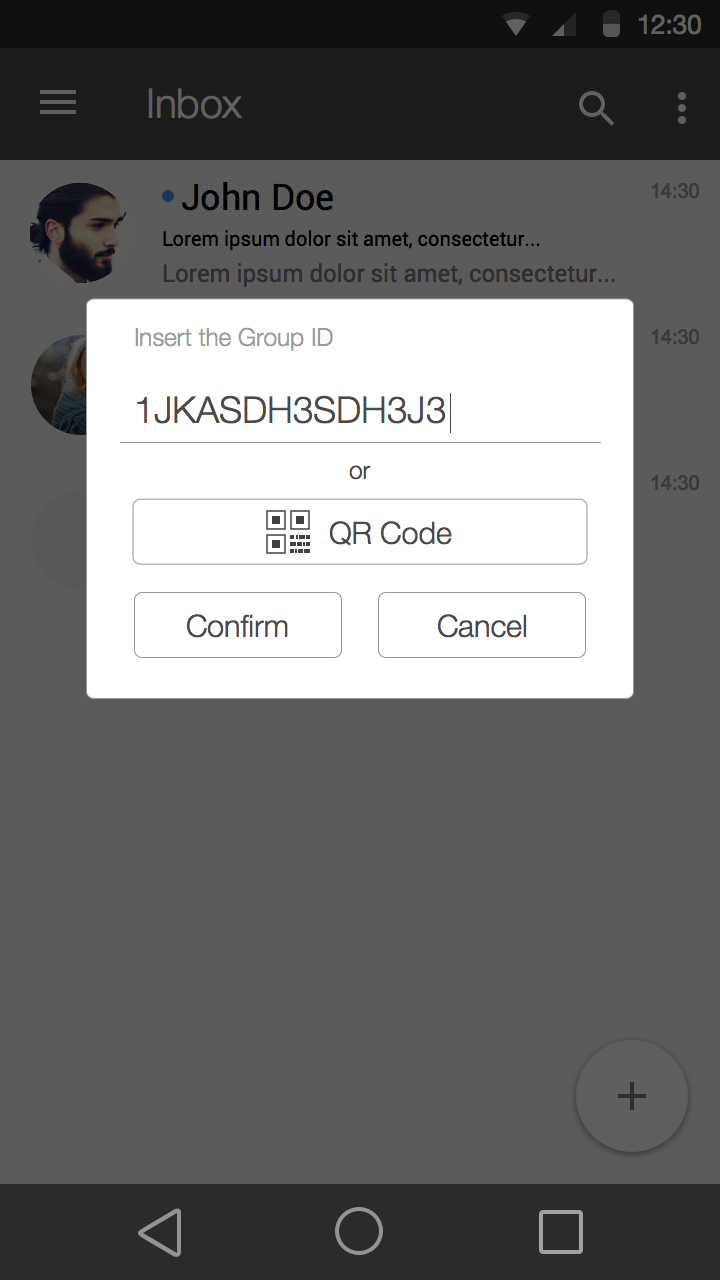
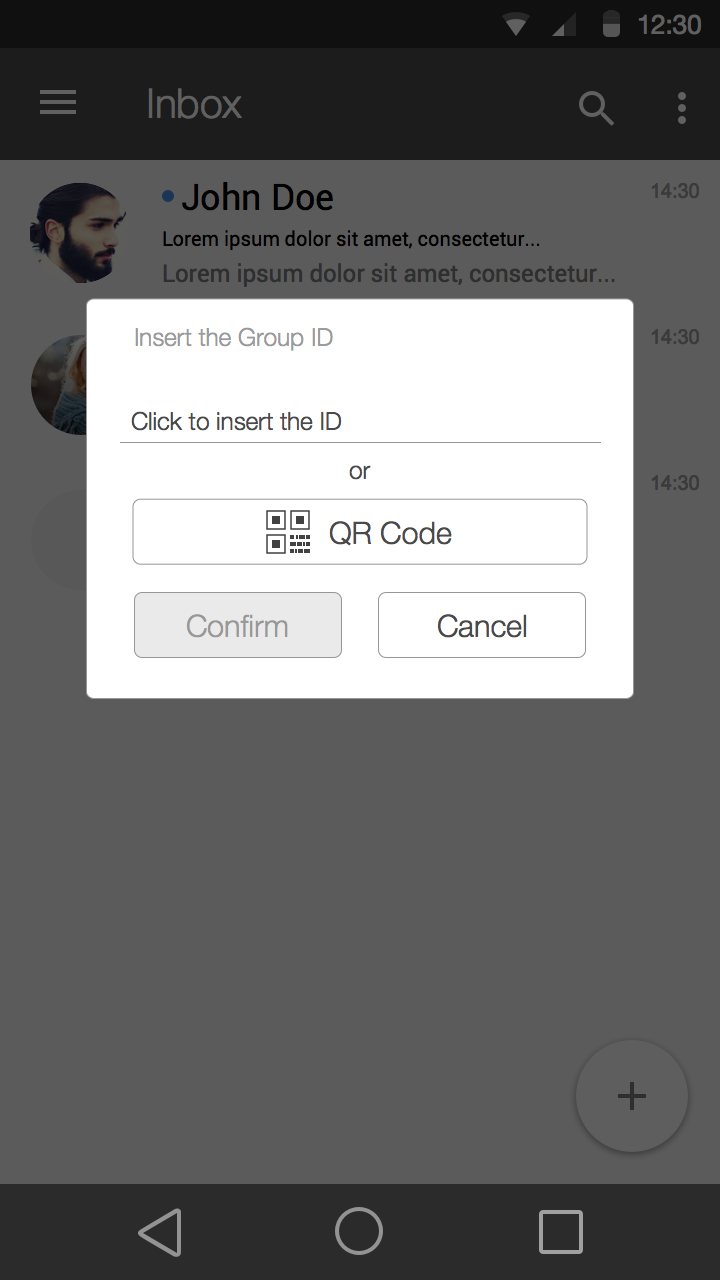
Fix the Join Group Chat by QRCode

Changed region(s): [[0.1833, 0.3125, 0.6417, 0.3438], [0.2444, 0.4688, 0.3972, 0.5]]

diff --git a/doc/storyboard/indexGroupIDCode.html b/doc/storyboard/indexGroupIDCode.html
@@ -10,10 +10,12 @@
 			<center>
 				<div>
 					<div id="center">
-						<img id="centerIMG"src="img/Inbox GroupID.png">
+						<img id="centerIMG"src="img/Inbox GroupID Code.png">
 						<a href="index.html"><div class="highlight" style="position:absolute;top: 326px;left: 216px;width: 100px;height: 40px;"></div></a>
 						<a href="inboxQrcode.html"><div class="highlight" style="position:absolute;top: 273px;left: 75px;width: 250px;height: 40px;"></div></a>
-						<a href="indexGroupIDKeyboard.html"><div class="highlight" style="position:absolute;top: 203px;left: 65px;width: 270px;height: 40px;"></div></a>
+						<a href="indexSwipeLeft.html" style="color:blue;"><div style="position:absolute;top: 200px;left: 420px;height: 80px;">Write!</div></a>
+						<a href="GroupMessage.html"><div class="highlight" style="position:absolute;top: 326px;left: 82px;width: 100px;height: 40px;"></div></a>
+
 					</div>
 					<div id="text"><h1>Tox Android Application Mockup</h1></div>
 					<input id="checkbox" type="checkbox"  checked>Highlight Touch Spots<br>

diff --git a/doc/storyboard/indexGroupIDKeyboard.html b/doc/storyboard/indexGroupIDKeyboard.html
@@ -10,10 +10,11 @@
 			<center>
 				<div>
 					<div id="center">
-						<img id="centerIMG"src="img/Inbox GroupID.png">
+						<img id="centerIMG"src="img/Inbox GroupID keyboard.png">
 						<a href="index.html"><div class="highlight" style="position:absolute;top: 326px;left: 216px;width: 100px;height: 40px;"></div></a>
 						<a href="inboxQrcode.html"><div class="highlight" style="position:absolute;top: 273px;left: 75px;width: 250px;height: 40px;"></div></a>
-						<a href="indexGroupIDKeyboard.html"><div class="highlight" style="position:absolute;top: 203px;left: 65px;width: 270px;height: 40px;"></div></a>
+						<a href="indexGroupIDCode.html" style="color:blue;"><div style="position:absolute;top: 200px;left: 420px;height: 80px;">Write!</div></a>
+
 					</div>
 					<div id="text"><h1>Tox Android Application Mockup</h1></div>
 					<input id="checkbox" type="checkbox"  checked>Highlight Touch Spots<br>

diff --git a/doc/storyboard/inboxQrcode.html b/doc/storyboard/inboxQrcode.html
@@ -10,10 +10,8 @@
 			<center>
 				<div>
 					<div id="center">
-						<img id="centerIMG"src="img/Inbox GroupID.png">
-						<a href="index.html"><div class="highlight" style="position:absolute;top: 326px;left: 216px;width: 100px;height: 40px;"></div></a>
-						<a href="inboxQrcode.html"><div class="highlight" style="position:absolute;top: 273px;left: 75px;width: 250px;height: 40px;"></div></a>
-						<a href="indexGroupIDKeyboard.html"><div class="highlight" style="position:absolute;top: 203px;left: 65px;width: 270px;height: 40px;"></div></a>
+						<img id="centerIMG"src="img/qrcode.png">
+						<a href="indexGroupIDCode.html"><div class="highlight" style="position:absolute;top: 35px;left: 12px;width: 100px;height: 30px;"></div></a>
 					</div>
 					<div id="text"><h1>Tox Android Application Mockup</h1></div>
 					<input id="checkbox" type="checkbox"  checked>Highlight Touch Spots<br>

diff --git a/doc/storyboard/qrcode.html b/doc/storyboard/qrcode.html
@@ -11,6 +11,7 @@
 				<div>
 					<div id="center">
 						<img id="centerIMG"src="img/qrcode.png">
+						<a href="javascript:history.back()"><div class="highlight" style="position:absolute;top: 35px;left: 12px;width: 100px;height: 30px;"></div></a>
 					</div>
 					<div id="text"><h1>Tox Android Application Mockup</h1></div>
 					<input id="checkbox" type="checkbox"  checked>Highlight Touch Spots<br>
